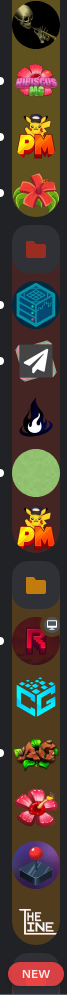
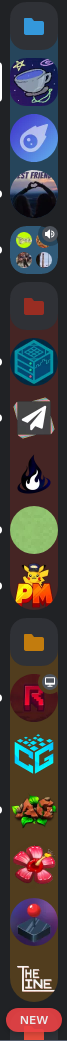
docs(better-folders): update images

diff --git a/README.md b/README.md
@@ -27,4 +27,4 @@ to recognize the boundaries between folders, and see what folder you are in when
 - Background colour will not automatically update when adjusting folder colours.
   Closing the folder and re-opening it will fix this issue.
 
-![Read more words!](assets/better-folders-1.png)
+![1](assets/better-folders-1.png) ![2](assets/better-folders-2.png)
